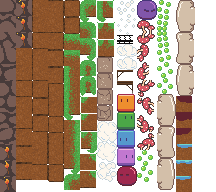
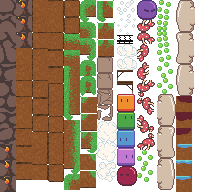
:shipit: More tests and tweaks

Changed region(s): [[0.6389, 0.0938, 0.7222, 0.25], [0.4444, 0.4688, 0.5278, 0.6562]]

diff --git a/src/gameplay.c b/src/gameplay.c
@@ -476,7 +476,7 @@ static inline void render_objects(gameplay_scene *this,
             sobj *o = &sim_grid(sim, r, c);
             if (o->tag != 0 && ((o->tag < OBJID_DRAW_AFTER) ^ is_after)) {
                 render_texture_scaled(get_texture(this, o),
-                    align_pixel(((int)o->x + o->ty) * UNIT_PX) - cxi,
+                    align_pixel(((int)o->x + o->tx) * UNIT_PX) - cxi,
                     align_pixel(((int)o->y + o->ty) * UNIT_PX) - cyi,
                     SPR_SCALE
                 );

diff --git a/src/game_data.c b/src/game_data.c
@@ -155,7 +155,6 @@ sim *stage_create_sim(struct stage_rec *this)
             grid_offset(t, &tx, &ty);
             sim_grid(s, i, j).tx = -tx * 1./16;
             sim_grid(s, i, j).ty = -ty * 1./16;
-            if (t != 0) printf("%d %.4lf %.4lf\n", (int)t, -tx * 1./16, -ty * 1./16);
         }
 
     /* Initialize all animate objects */
